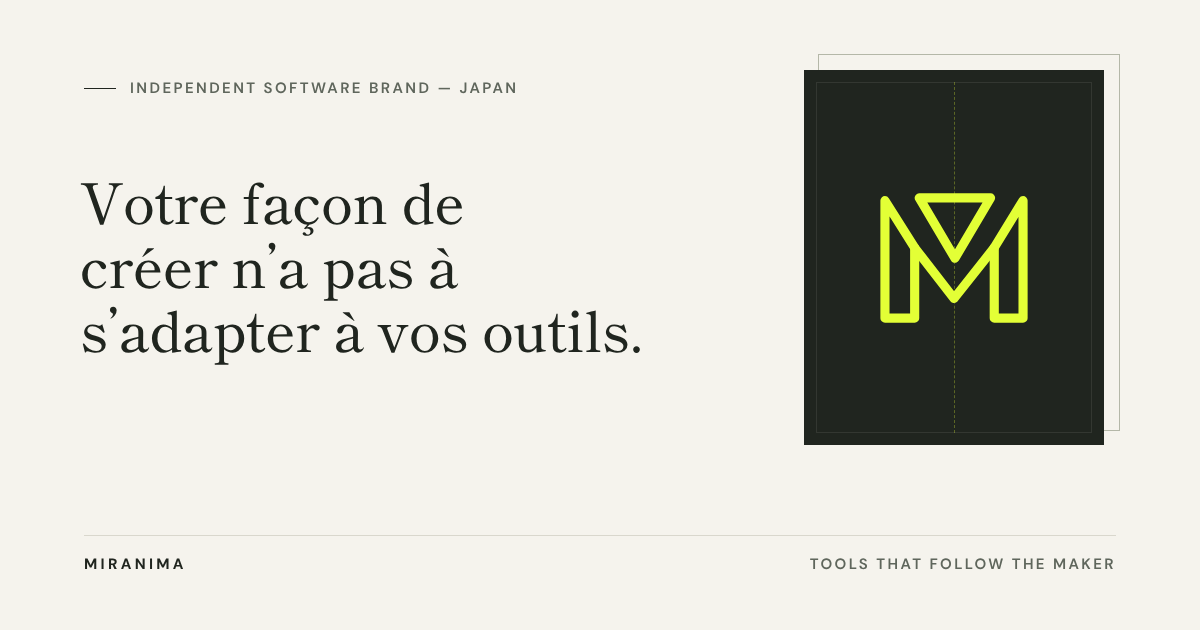
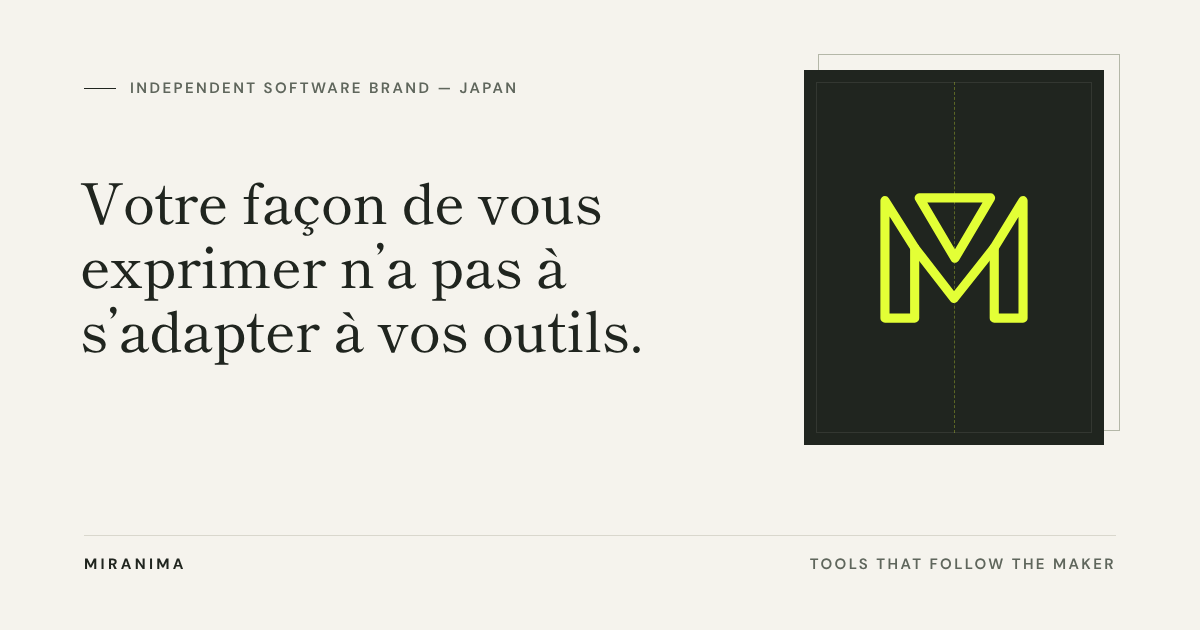
i18n: final regional wording after fourth and fifth blind reviews
- es: neutral legal form "Negocio individual (Japón)", nav "Información del negocio",
  shorter feature list without repeated "edición".
- fr: headline keeps "vous exprimer" (express) like the other languages.
- zh: 营业名称 / 營業名稱 instead of 商号 / 商號 (implies local registration),
  disclosure says requests go by email; zh-Hant 主選單 / 手機版選單.
- ko: reply note says replies are written with the help of translation tools.

Claude-Session: https://claude.ai/code/session_01Ut1n9ZViitci32mmUTiKmV

Changed region(s): [[0.0617, 0.3921, 0.4933, 0.4825], [0.4008, 0.3016, 0.5242, 0.3619]]

diff --git a/fr/index.html b/fr/index.html
@@ -4,7 +4,7 @@
 <head>
   <meta charset="utf-8">
   <meta name="viewport" content="width=device-width, initial-scale=1, viewport-fit=cover">
-  <title>MIRANIMA — Votre façon de créer n’a pas à s’adapter à vos outils.</title>
+  <title>MIRANIMA — Votre façon de vous exprimer n’a pas à s’adapter à vos outils.</title>
   <meta name="description" content="MIRANIMA est une marque de logiciels japonaise qui conçoit ses outils à partir de ce que les créateurs veulent exprimer. Nous développons NIARIM, une application Android d’animation dessinée à la main.">
   <meta name="theme-color" content="#f5f3ed">
   <meta name="color-scheme" content="light">
@@ -21,13 +21,13 @@
   <meta property="og:type" content="website">
   <meta property="og:site_name" content="MIRANIMA">
   <meta property="og:locale" content="fr_FR">
-  <meta property="og:title" content="MIRANIMA — Votre façon de créer n’a pas à s’adapter à vos outils.">
+  <meta property="og:title" content="MIRANIMA — Votre façon de vous exprimer n’a pas à s’adapter à vos outils.">
   <meta property="og:description" content="Des outils pensés à partir de ce que vous voulez exprimer. La marque de logiciels à l’origine de NIARIM, une application d’animation dessinée à la main.">
   <meta property="og:url" content="https://miranima-studio.com/fr/">
   <meta property="og:image" content="https://miranima-studio.com/assets/og/fr.png">
   <meta property="og:image:width" content="1200">
   <meta property="og:image:height" content="630">
-  <meta property="og:image:alt" content="MIRANIMA — Votre façon de créer n’a pas à s’adapter à vos outils.">
+  <meta property="og:image:alt" content="MIRANIMA — Votre façon de vous exprimer n’a pas à s’adapter à vos outils.">
   <meta name="twitter:card" content="summary_large_image">
 
   <link rel="icon" href="../assets/favicon.svg" type="image/svg+xml">
@@ -150,7 +150,7 @@
     <div class="container hero-grid">
       <div class="hero-copy">
         <p class="label hero-label" lang="en"><span class="label-rule" aria-hidden="true"></span>Independent software brand — Japan</p>
-        <h1 class="hero-title" id="hero-title">Votre façon de créer n’a pas à s’adapter à vos outils.</h1>
+        <h1 class="hero-title" id="hero-title">Votre façon de vous exprimer n’a pas à s’adapter à vos outils.</h1>
         <p class="hero-lead">Ce que l’on veut dessiner, et la manière de le créer, diffèrent d’une personne à l’autre. Plutôt que de demander aux créateurs de s’adapter aux contraintes de l’outil, MIRANIMA conçoit ses outils à partir de ce qu’ils veulent exprimer.</p>
         <p class="hero-detail">Nous transformons en logiciels réellement utilisables les « si seulement on pouvait… » qui surgissent en pleine création. Notre premier produit est <b class="latin">NIARIM</b>, une application d’animation dessinée à la main.</p>
         <div class="hero-actions">
@@ -246,7 +246,7 @@
         </div>
         <div class="product-body">
           <p class="product-lead">NIARIM est une application Android pour créer de l’animation dessinée à la main sur téléphone ou tablette.</p>
-          <p>Dessinez sur la toile, superposez l’image suivante et ajustez le mouvement pendant la lecture. Du dessin au montage, du montage audio à l’exportation vidéo, tout se fait dans une seule application.</p>
+          <p>Dessinez sur la toile, superposez l’image suivante et ajustez le mouvement pendant la lecture. Dessin, montage, son et exportation vidéo : tout se fait dans une seule application.</p>
           <div class="product-actions">
             <a class="btn btn-niarim" href="https://niarim.miranima-studio.com/?lang=fr" target="_blank" rel="noopener">Site officiel de NIARIM<svg class="icon" aria-hidden="true"><use href="#arrow-ne"/></svg><span class="visually-hidden">(s’ouvre dans un nouvel onglet)</span></a>
             <a class="text-link text-link-ext" href="https://play.google.com/store/apps/details?id=com.niarim.niarim&amp;hl=fr" target="_blank" rel="noopener">Voir sur Google Play<svg class="icon" aria-hidden="true"><use href="#arrow-ne"/></svg><span class="visually-hidden">(s’ouvre dans un nouvel onglet)</span></a>

diff --git a/zh-hant/index.html b/zh-hant/index.html
@@ -88,7 +88,7 @@
       <span class="brand-tile" aria-hidden="true"><svg><use href="#mark"/></svg></span>
       <span class="brand-word">MIRANIMA</span>
     </a>
-    <nav class="nav" aria-label="主要導覽">
+    <nav class="nav" aria-label="主選單">
       <ul class="nav-list" lang="en">
         <li><a href="#name" data-nav>Name</a></li>
         <li><a href="#niarim" data-nav>NIARIM</a></li>
@@ -118,7 +118,7 @@
 </header>
 
 <div class="menu" id="menu" data-menu hidden>
-  <nav class="container menu-inner" aria-label="手機版導覽">
+  <nav class="container menu-inner" aria-label="手機版選單">
     <ol class="menu-list">
       <li><a href="#name"><span class="menu-no">01</span><span lang="en">Name</span><small>名字的由來</small></a></li>
       <li><a href="#niarim"><span class="menu-no">02</span><span>NIARIM</span><small>產品</small></a></li>
@@ -346,14 +346,14 @@
       <div class="studio-grid">
         <div class="studio-intro">
           <h2 class="studio-name" id="studio-title">MIRANIMA<span class="studio-reading">mi·ra·ni·ma</span></h2>
-          <p class="studio-copy">MIRANIMA 是個人經營的商號，為創作者企劃、開發軟體。目前，我們主要在開發與營運手繪動畫製作應用程式「NIARIM」。</p>
+          <p class="studio-copy">MIRANIMA 是由個人經營者使用的營業名稱，為創作者企劃、開發軟體。目前主要從事手繪動畫製作應用程式「NIARIM」的開發與營運。</p>
         </div>
 
         <div class="studio-body">
           <dl class="facts">
-            <div class="fact"><dt>商號</dt><dd>MIRANIMA（ミラニマ）</dd></div>
+            <div class="fact"><dt>營業名稱</dt><dd>MIRANIMA（ミラニマ）</dd></div>
             <div class="fact"><dt>組織型態</dt><dd>個人經營</dd></div>
-            <div class="fact"><dt>負責人、地址、電話號碼</dt><dd>收到請求後，我們將及時提供上述資訊。</dd></div>
+            <div class="fact"><dt>負責人、地址、電話號碼</dt><dd>如透過電子郵件提出請求，將及時提供。</dd></div>
             <div class="fact">
               <dt>依據日本《特定商業交易法》之標示</dt>
               <dd>
@@ -406,7 +406,7 @@
     </a>
     <p class="footer-motto" lang="en">Tools that follow the maker.</p>
     <a class="label footer-top" href="#top">回到頂端<svg class="icon" aria-hidden="true"><use href="#arrow-down"/></svg></a>
-    <p class="footer-meta"><span>© <span data-year>2026</span> MIRANIMA</span><span>商號：MIRANIMA</span></p>
+    <p class="footer-meta"><span>© <span data-year>2026</span> MIRANIMA</span><span>營業名稱：MIRANIMA</span></p>
   </div>
 </footer>
 </body>

diff --git a/es/index.html b/es/index.html
@@ -122,7 +122,7 @@
     <ol class="menu-list">
       <li><a href="#name"><span class="menu-no">01</span><span lang="en">Name</span><small>Sobre el nombre</small></a></li>
       <li><a href="#niarim"><span class="menu-no">02</span><span>NIARIM</span><small>Producto</small></a></li>
-      <li><a href="#studio"><span class="menu-no">03</span><span lang="en">Studio</span><small>Sobre la actividad</small></a></li>
+      <li><a href="#studio"><span class="menu-no">03</span><span lang="en">Studio</span><small>Información del negocio</small></a></li>
       <li><a href="#contact"><span class="menu-no">04</span><span lang="en">Contact</span><small>Contacto</small></a></li>
     </ol>
     <div class="menu-foot">
@@ -246,7 +246,7 @@
         </div>
         <div class="product-body">
           <p class="product-lead">NIARIM es una app para Android con la que creas animación dibujada a mano en tu teléfono o tableta.</p>
-          <p>Dibuja en el lienzo, superpón el siguiente fotograma y ajusta el movimiento mientras lo reproduces. Del dibujo y la edición a la edición de audio y la exportación de video, todo el proceso cabe en una sola app.</p>
+          <p>Dibuja en el lienzo, superpón el siguiente fotograma y ajusta el movimiento mientras lo reproduces. Dibujo, edición, audio y exportación de video: todo el proceso cabe en una sola app.</p>
           <div class="product-actions">
             <a class="btn btn-niarim" href="https://niarim.miranima-studio.com/?lang=es" target="_blank" rel="noopener">Sitio oficial de NIARIM<svg class="icon" aria-hidden="true"><use href="#arrow-ne"/></svg><span class="visually-hidden">(se abre en una pestaña nueva)</span></a>
             <a class="text-link text-link-ext" href="https://play.google.com/store/apps/details?id=com.niarim.niarim&amp;hl=es" target="_blank" rel="noopener">Ver en Google Play<svg class="icon" aria-hidden="true"><use href="#arrow-ne"/></svg><span class="visually-hidden">(se abre en una pestaña nueva)</span></a>
@@ -352,7 +352,7 @@
         <div class="studio-body">
           <dl class="facts">
             <div class="fact"><dt>Nombre comercial</dt><dd>MIRANIMA (ミラニマ)</dd></div>
-            <div class="fact"><dt>Forma jurídica</dt><dd>Empresa individual (persona física)</dd></div>
+            <div class="fact"><dt>Forma jurídica</dt><dd>Negocio individual (Japón)</dd></div>
             <div class="fact"><dt>Titular, dirección y teléfono</dt><dd>Se facilitarán sin demora a quien los solicite.</dd></div>
             <div class="fact">
               <dt>Aviso conforme a la Ley de Transacciones Comerciales Específicas (Japón)</dt>

diff --git a/zh-hans/index.html b/zh-hans/index.html
@@ -347,14 +347,14 @@
       <div class="studio-grid">
         <div class="studio-intro">
           <h2 class="studio-name" id="studio-title">MIRANIMA<span class="studio-reading">mi·ra·ni·ma</span></h2>
-          <p class="studio-copy">MIRANIMA 是个人经营的商号，为创作者策划、开发软件。目前，我们主要在开发和运营手绘动画制作应用“NIARIM”。</p>
+          <p class="studio-copy">MIRANIMA 是由个人经营者使用的营业名称，为创作者策划、开发软件。目前主要从事手绘动画制作应用“NIARIM”的开发与运营。</p>
         </div>
 
         <div class="studio-body">
           <dl class="facts">
-            <div class="fact"><dt>商号</dt><dd>MIRANIMA（ミラニマ）</dd></div>
+            <div class="fact"><dt>营业名称</dt><dd>MIRANIMA（ミラニマ）</dd></div>
             <div class="fact"><dt>组织形式</dt><dd>个人经营</dd></div>
-            <div class="fact"><dt>负责人、地址、电话号码</dt><dd>收到请求后，我们将及时提供上述信息。</dd></div>
+            <div class="fact"><dt>负责人、地址、电话号码</dt><dd>如通过电子邮件提出请求，将及时提供。</dd></div>
             <div class="fact">
               <dt>依据日本《特定商业交易法》的公示信息</dt>
               <dd>
@@ -407,7 +407,7 @@
     </a>
     <p class="footer-motto" lang="en">Tools that follow the maker.</p>
     <a class="label footer-top" href="#top">返回顶部<svg class="icon" aria-hidden="true"><use href="#arrow-down"/></svg></a>
-    <p class="footer-meta"><span>© <span data-year>2026</span> MIRANIMA</span><span>商号：MIRANIMA</span></p>
+    <p class="footer-meta"><span>© <span data-year>2026</span> MIRANIMA</span><span>营业名称：MIRANIMA</span></p>
   </div>
 </footer>
 </body>

diff --git a/ko/index.html b/ko/index.html
@@ -379,7 +379,7 @@
         <div class="contact-intro">
           <h2 class="contact-title" id="contact-title">문의</h2>
           <p>제품에 관한 질문, 거래나 협업 상담 등은 이메일로 연락해 주세요. 내용을 확인한 후 답변드리겠습니다.</p>
-          <p class="contact-note">MIRANIMA는 일본에서 개발자 한 명이 운영하고 있습니다. 한국어로 보내 주셔도 괜찮습니다. 보내 주신 메시지는 번역 도구를 이용해 일본어로 옮겨 읽고, 답장도 번역 도구로 작성합니다. 그래서 회신이 조금 늦어지거나 표현이 간단할 수 있습니다.</p>
+          <p class="contact-note">MIRANIMA는 일본에서 개발자 한 명이 운영하고 있습니다. 한국어로 편하게 문의해 주세요. 보내 주신 메시지는 번역 도구를 이용해 일본어로 옮겨 읽고, 답장도 번역 도구의 도움을 받아 작성합니다. 이 때문에 회신이 조금 늦어지거나 표현이 간단할 수 있습니다.</p>
         </div>
         <svg class="contact-mark" aria-hidden="true"><use href="#mark"/></svg>
       </div>
